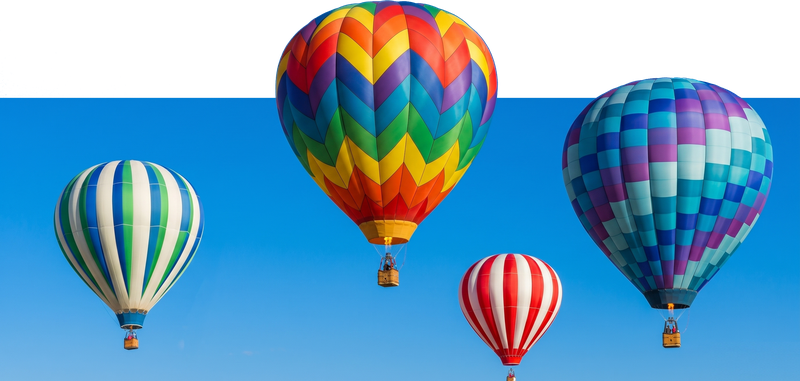
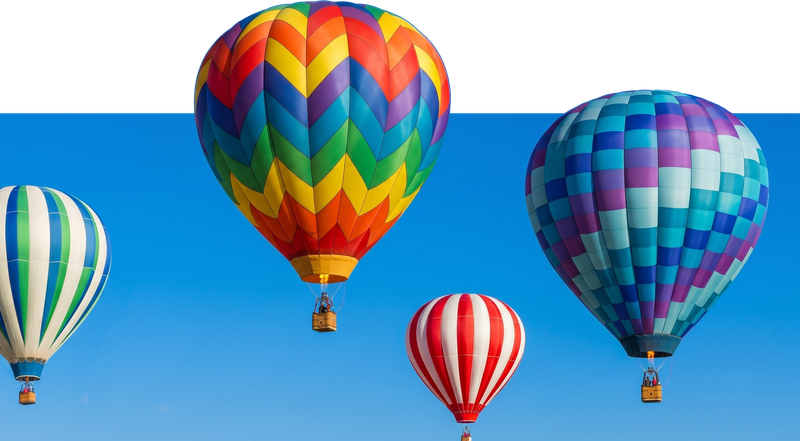
Update mongolfiere artwork and remove copy section divider.
Use the new transparent balloon PNG and drop the border above the registration card text block.

diff --git a/index.html b/index.html
@@ -1056,7 +1056,6 @@
     .registration-copy {
       flex: 1 1 auto;
       padding: clamp(18px, 2.8vw, 26px);
-      border-top: 1px solid var(--line);
     }
 
     .registration-copy .kicker {
@@ -2197,7 +2196,7 @@
         <div class="registration-left">
           <div class="registration-media">
             <figure class="registration-visual">
-              <img src="assets/backgroundmongolfiere-card.png" alt="Mongolfiere colorate nel cielo per rappresentare un momento di incontro e confronto con la community" width="800" height="381" loading="lazy" decoding="async" />
+              <img src="assets/backgroundmongolfiere-card.png" alt="Mongolfiere colorate nel cielo per rappresentare un momento di incontro e confronto con la community" width="800" height="441" loading="lazy" decoding="async" />
             </figure>
             <div class="registration-copy">
               <p class="kicker">Webinar gratuito</p>
